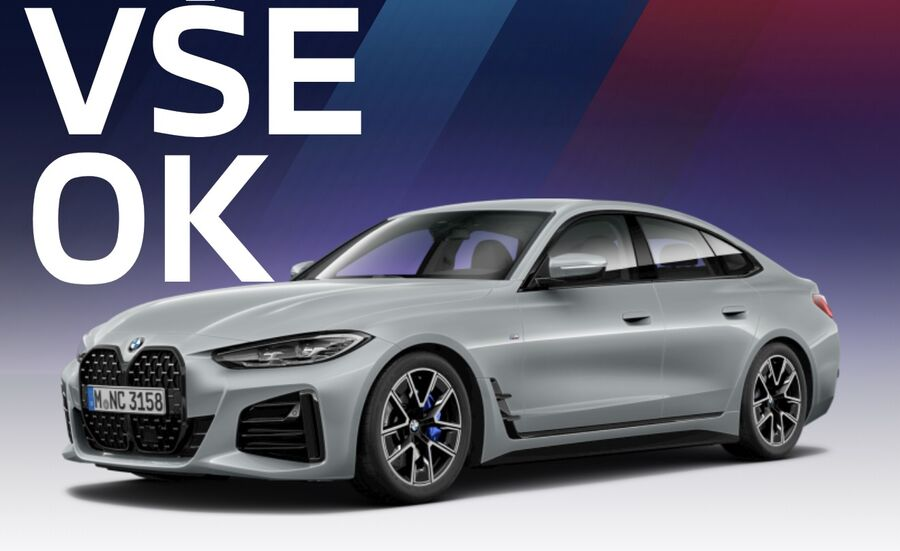
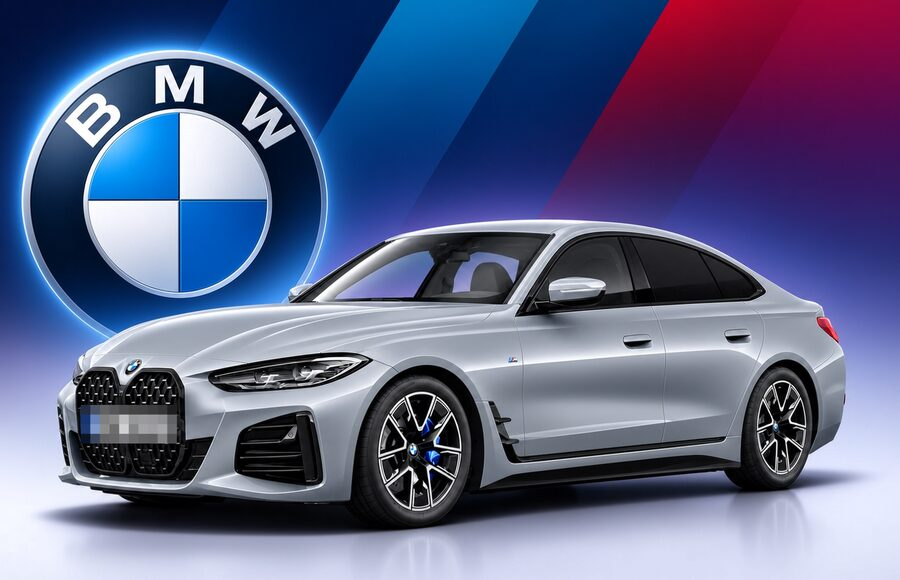
BMW: nová fotka do karty (SPZ rozmazaná, repo je veřejné)
Claude-Session: https://claude.ai/code/session_01RLUQHQMAcLKdqHA7shYWv5

diff --git a/public/index.html b/public/index.html
@@ -1125,7 +1125,7 @@
   .term-skupina + .term-radek{border-top:none;}
   /* Živá data auta (BMW CarData) v kartě termínů */
   .bmw-karta{align-items:stretch;}
-  .bmw-foto{display:block;width:100%;height:auto;aspect-ratio:900/551;object-fit:cover;border-radius:14px;}
+  .bmw-foto{display:block;width:100%;height:auto;aspect-ratio:900/580;object-fit:cover;border-radius:14px;}
   .bmw-titulek{margin:10px 0 0;text-align:left;}
   .bmw-blok{margin:6px 0 4px;padding:10px 12px;border-radius:12px;background:var(--bg);}
   .bmw-cisla{display:flex;flex-wrap:wrap;gap:6px 16px;align-items:baseline;}
